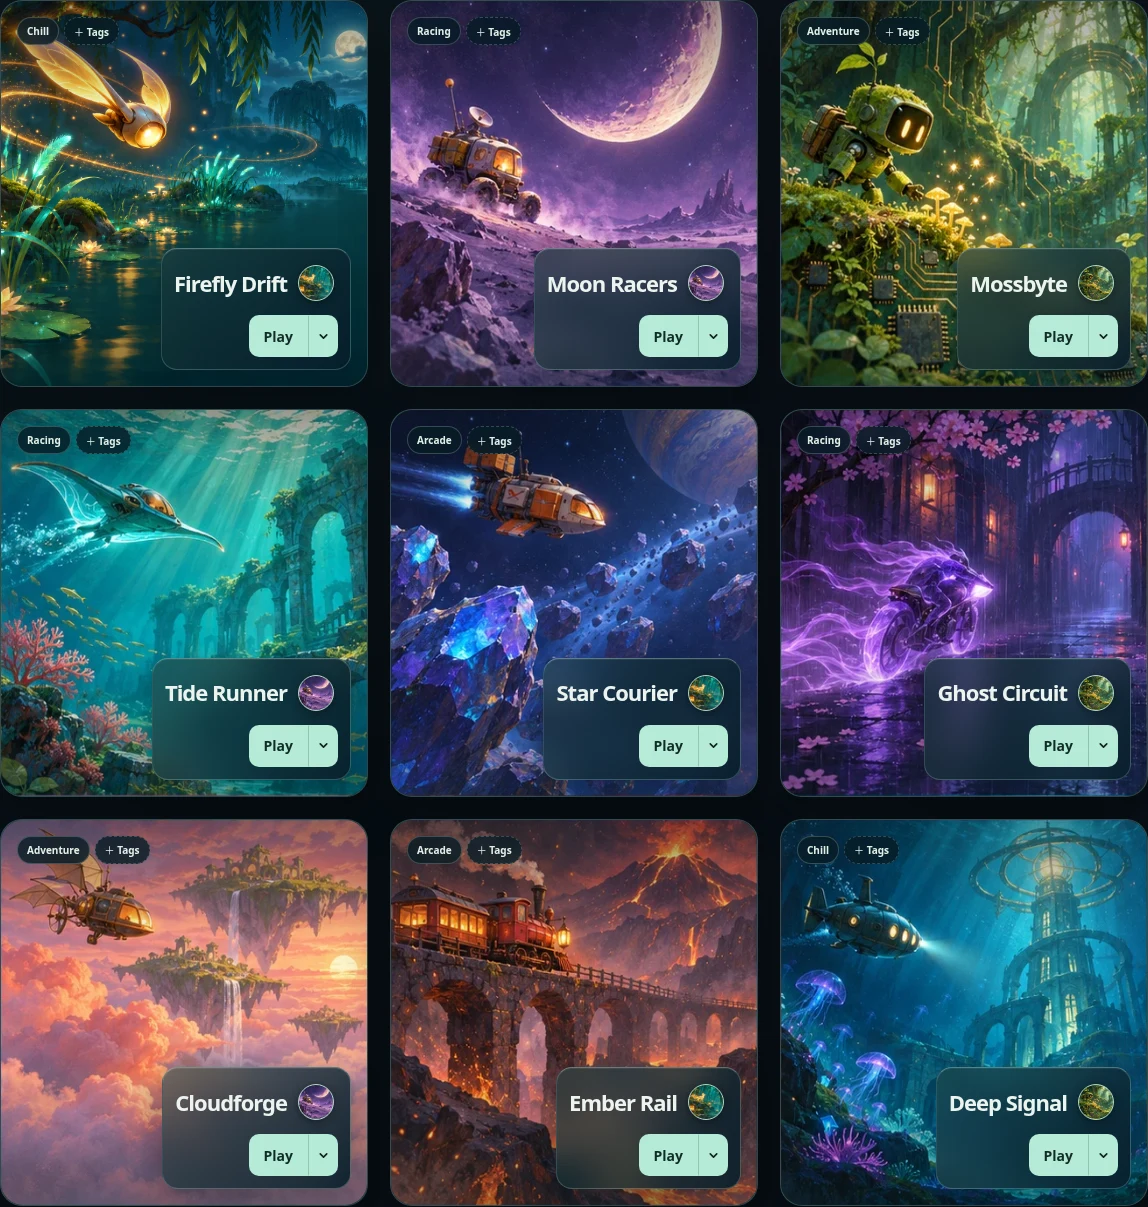
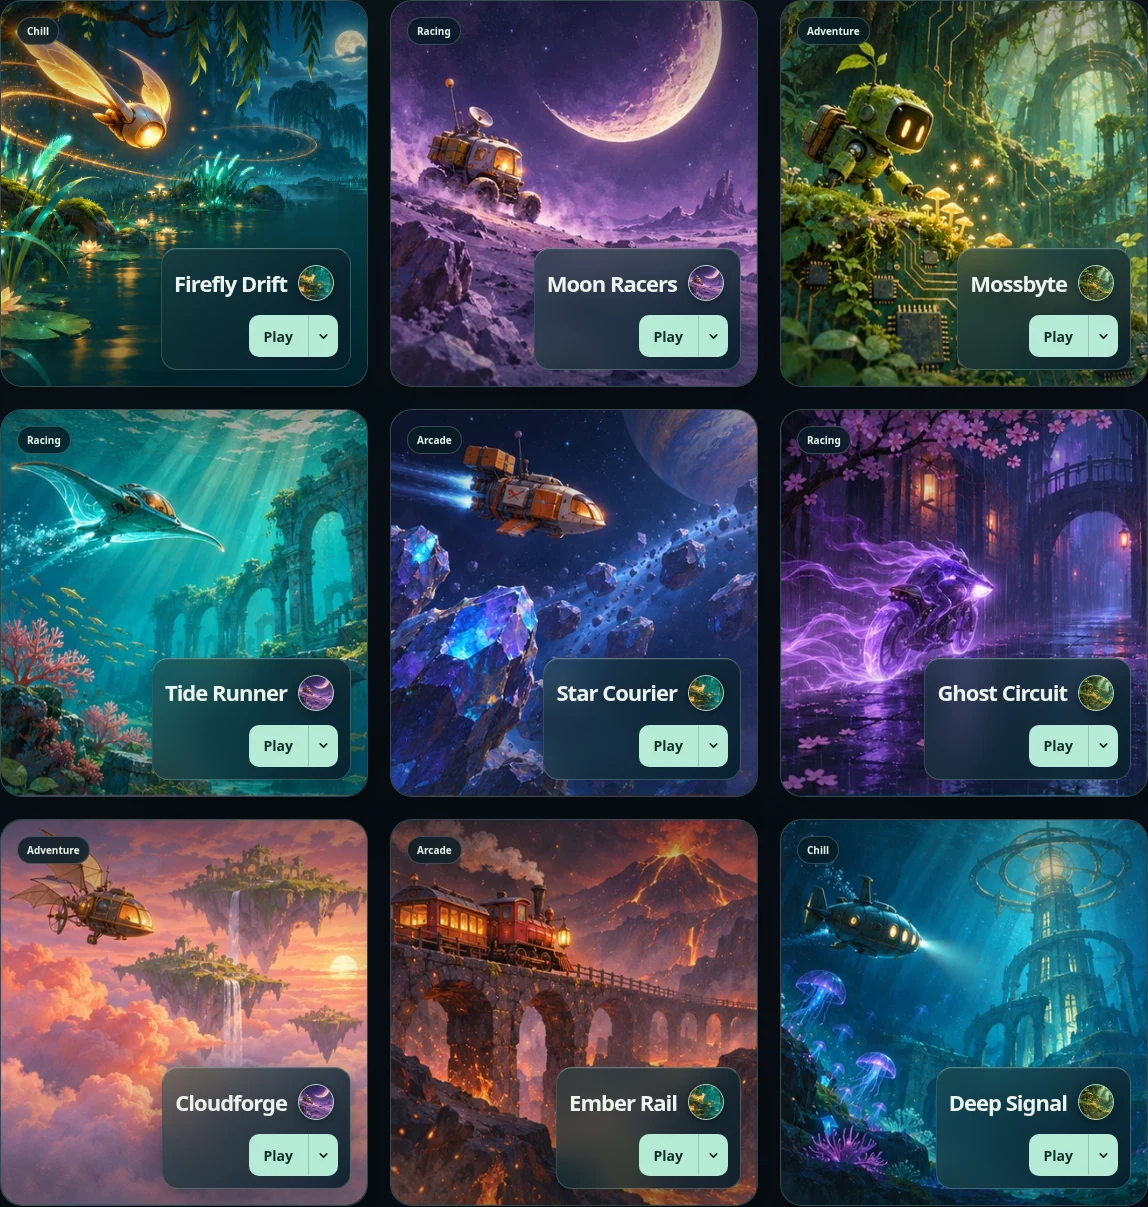
Reveal mockup tag editing on hover or touch hold

diff --git a/docs/design-explorations/nightglass-library/mock.js b/docs/design-explorations/nightglass-library/mock.js
@@ -9,6 +9,7 @@ const games=[
 let category='',editing,current;
 const notify=text=>{$('notice').textContent=text;$('notice').classList.add('visible');};
 function render(){
+  cancelTagHold();
   const q=$('game-search').value.toLowerCase(),visible=games.filter(g=>(!category||g.tags.includes(category))&&g.title.toLowerCase().includes(q));
   $('games').replaceChildren();$('game-count').textContent=visible.length+' / '+games.length+' games';
   for(const g of visible){
@@ -26,6 +27,29 @@ function render(){
   }
   if(!visible.length){const empty=node('div',undefined,'empty');empty.append(node('h2','No matches'),node('p','Try another tag or search.'));$('games').append(empty);}
 }
+// Touch-only hold on the card surface; controls keep their own gestures.
+let tagHold, heldCard, suppressContextUntil=0;
+function cancelTagHold(){if(tagHold)clearTimeout(tagHold.timer);tagHold=null;}
+document.addEventListener('pointerdown',event=>{
+  cancelTagHold();
+  const card=event.target.closest('.game');
+  if(event.pointerType!=='touch'||!event.isPrimary||!card||!$('games').contains(card)||event.target.closest('button,select,input,textarea,a,summary'))return;
+  tagHold={pointer:event.pointerId,x:event.clientX,y:event.clientY,card,timer:setTimeout(()=>{
+    if(!card.isConnected){cancelTagHold();return;}
+    heldCard=card;suppressContextUntil=Date.now()+1200;
+    cancelTagHold();openTags(games.find(g=>String(g.id)===card.dataset.game));
+  },600)};
+},{passive:true});
+document.addEventListener('pointermove',event=>{
+  if(tagHold&&event.pointerId===tagHold.pointer&&Math.hypot(event.clientX-tagHold.x,event.clientY-tagHold.y)>10)cancelTagHold();
+},{passive:true});
+for(const type of ['pointerup','pointercancel'])document.addEventListener(type,cancelTagHold,{passive:true});
+window.addEventListener('scroll',cancelTagHold,{capture:true,passive:true});
+window.addEventListener('blur',cancelTagHold);
+document.addEventListener('visibilitychange',()=>{if(document.hidden)cancelTagHold();});
+$('games').addEventListener('contextmenu',event=>{
+  if(tagHold||Date.now()<suppressContextUntil&&heldCard?.contains(event.target))event.preventDefault();
+});
 function renderFilters(){const nav=$('tag-filters');nav.replaceChildren();for(const label of ['',...new Set(games.flatMap(g=>g.tags))]){const button=node('button',label||'All games','tag-filter'+(category===label?' selected':''));button.setAttribute('aria-pressed',String(category===label));button.onclick=()=>{category=label;renderFilters();render();};nav.append(button);}}
 function openTags(game){editing=game;$('tags-title').textContent='Tags: '+game.title;$('tag-picker').replaceChildren();for(const label of ['Arcade','Adventure','Racing','Chill']){const b=node('button',label,'tag-chip'+(game.tags.includes(label)?' selected':''));b.setAttribute('aria-pressed',String(game.tags.includes(label)));b.onclick=()=>{b.classList.toggle('selected');b.setAttribute('aria-pressed',String(b.classList.contains('selected')));};$('tag-picker').append(b);}$('tag-selection-count').textContent='Preview';$('tags-dialog').showModal();}
 $('save-tags').onclick=()=>{editing.tags=[...$('tag-picker').querySelectorAll('.selected')].map(e=>e.textContent);$('tags-dialog').close();renderFilters();render();};

diff --git a/docs/design-explorations/nightglass-library/mock.css b/docs/design-explorations/nightglass-library/mock.css
@@ -8,7 +8,9 @@
 .game-meta { display: flex; flex-wrap: wrap; align-content: start; align-items: center; gap: 7px; }
 .game-tags { gap: 5px; min-height: 0; margin: 0; justify-content: flex-start; }
 .game-tags .tag-chip,.edit-tags { background: #061b25cf; border-color: #d6f4e238; color: #e2efe6; min-height: 28px; padding: 4px 9px; backdrop-filter: blur(8px); }
-.edit-tags { border-style: dashed; }
+.edit-tags { border-style: dashed; opacity: 0; pointer-events: none; }
+.game-tags:focus-within .edit-tags { opacity: 1; pointer-events: auto; }
+@media (hover:hover) { .game-tags:hover .edit-tags { opacity: 1; pointer-events: auto; } }
 .game-meta .quiet { font-size: 10px; padding: 4px 8px; margin: 0; color: #e0eee7; background: #061b25cf; border-radius: 20px; }
 .game-dock { position: relative; align-self: flex-end; margin-top: auto; width: max-content; max-width: 100%; padding: 12px; display: flex; flex-wrap: wrap; justify-content: flex-end; align-items: center; gap: 10px 12px; border: 1px solid #b9f5ee35; border-top-color: #d8fff45c; border-radius: 16px; background: linear-gradient(125deg,#173e4080,#071e2be8); backdrop-filter: blur(16px) saturate(.8); box-shadow: 0 8px 30px #00101855,inset 0 1px #fff1; }
 .game-heading { display: flex; justify-content: flex-end; align-items: center; gap: 7px; min-width: 0; }

diff --git a/docs/design-explorations/nightglass-library/README.md b/docs/design-explorations/nightglass-library/README.md
@@ -12,7 +12,10 @@ Every card has full-bleed art and a content-sized smoked-glass dock at bottom ri
 Title and creator avatar share a row; the small joined Play/dropdown sits below on
 narrow cards. Hover or keyboard focus on the avatar shows “React to {author}’s game.”
 Click, Enter or tap opens the existing style of emoji picker. There is no second
-reaction control. Categories and tag editing remain compact over the art.
+reaction control. Categories remain compact over the art. “＋ Tags” appears only when the tag
+area is hovered or keyboard-focused. On touch screens, holding the card surface
+for 600ms opens tag editing. Movement, scrolling, cancellation or another pointer
+cancels the hold; Play, portraits and other controls keep their own gestures.
 
 Search, categories, tags, reactions, guest selection and the prompt flow are local
 preview interactions. Play does not launch, and no API calls are made. Fixtures
@@ -25,5 +28,7 @@ not a source of licensed third-party profile pictures or actual gameplay screens
 
 Verified in Chromium at 1280px desktop, 768px tablet and 320/390px phones, including
 content-sized dock bounds, focus/keyboard and touch reactions, dropdown selection,
-search/filter/tag previews, copyable mock prompt and reduced motion. See `desktop.webp`,
+search/filter/tag previews, copyable mock prompt and reduced motion. Tag controls
+were also checked for hover/focus visibility and real touch long presses, including
+short-tap, scroll, pointer-cancel and multi-touch cancellation. See `desktop.webp`,
 `phone.webp`, `phone-viewport.webp`, and `portrait-focus.webp` for captures.
